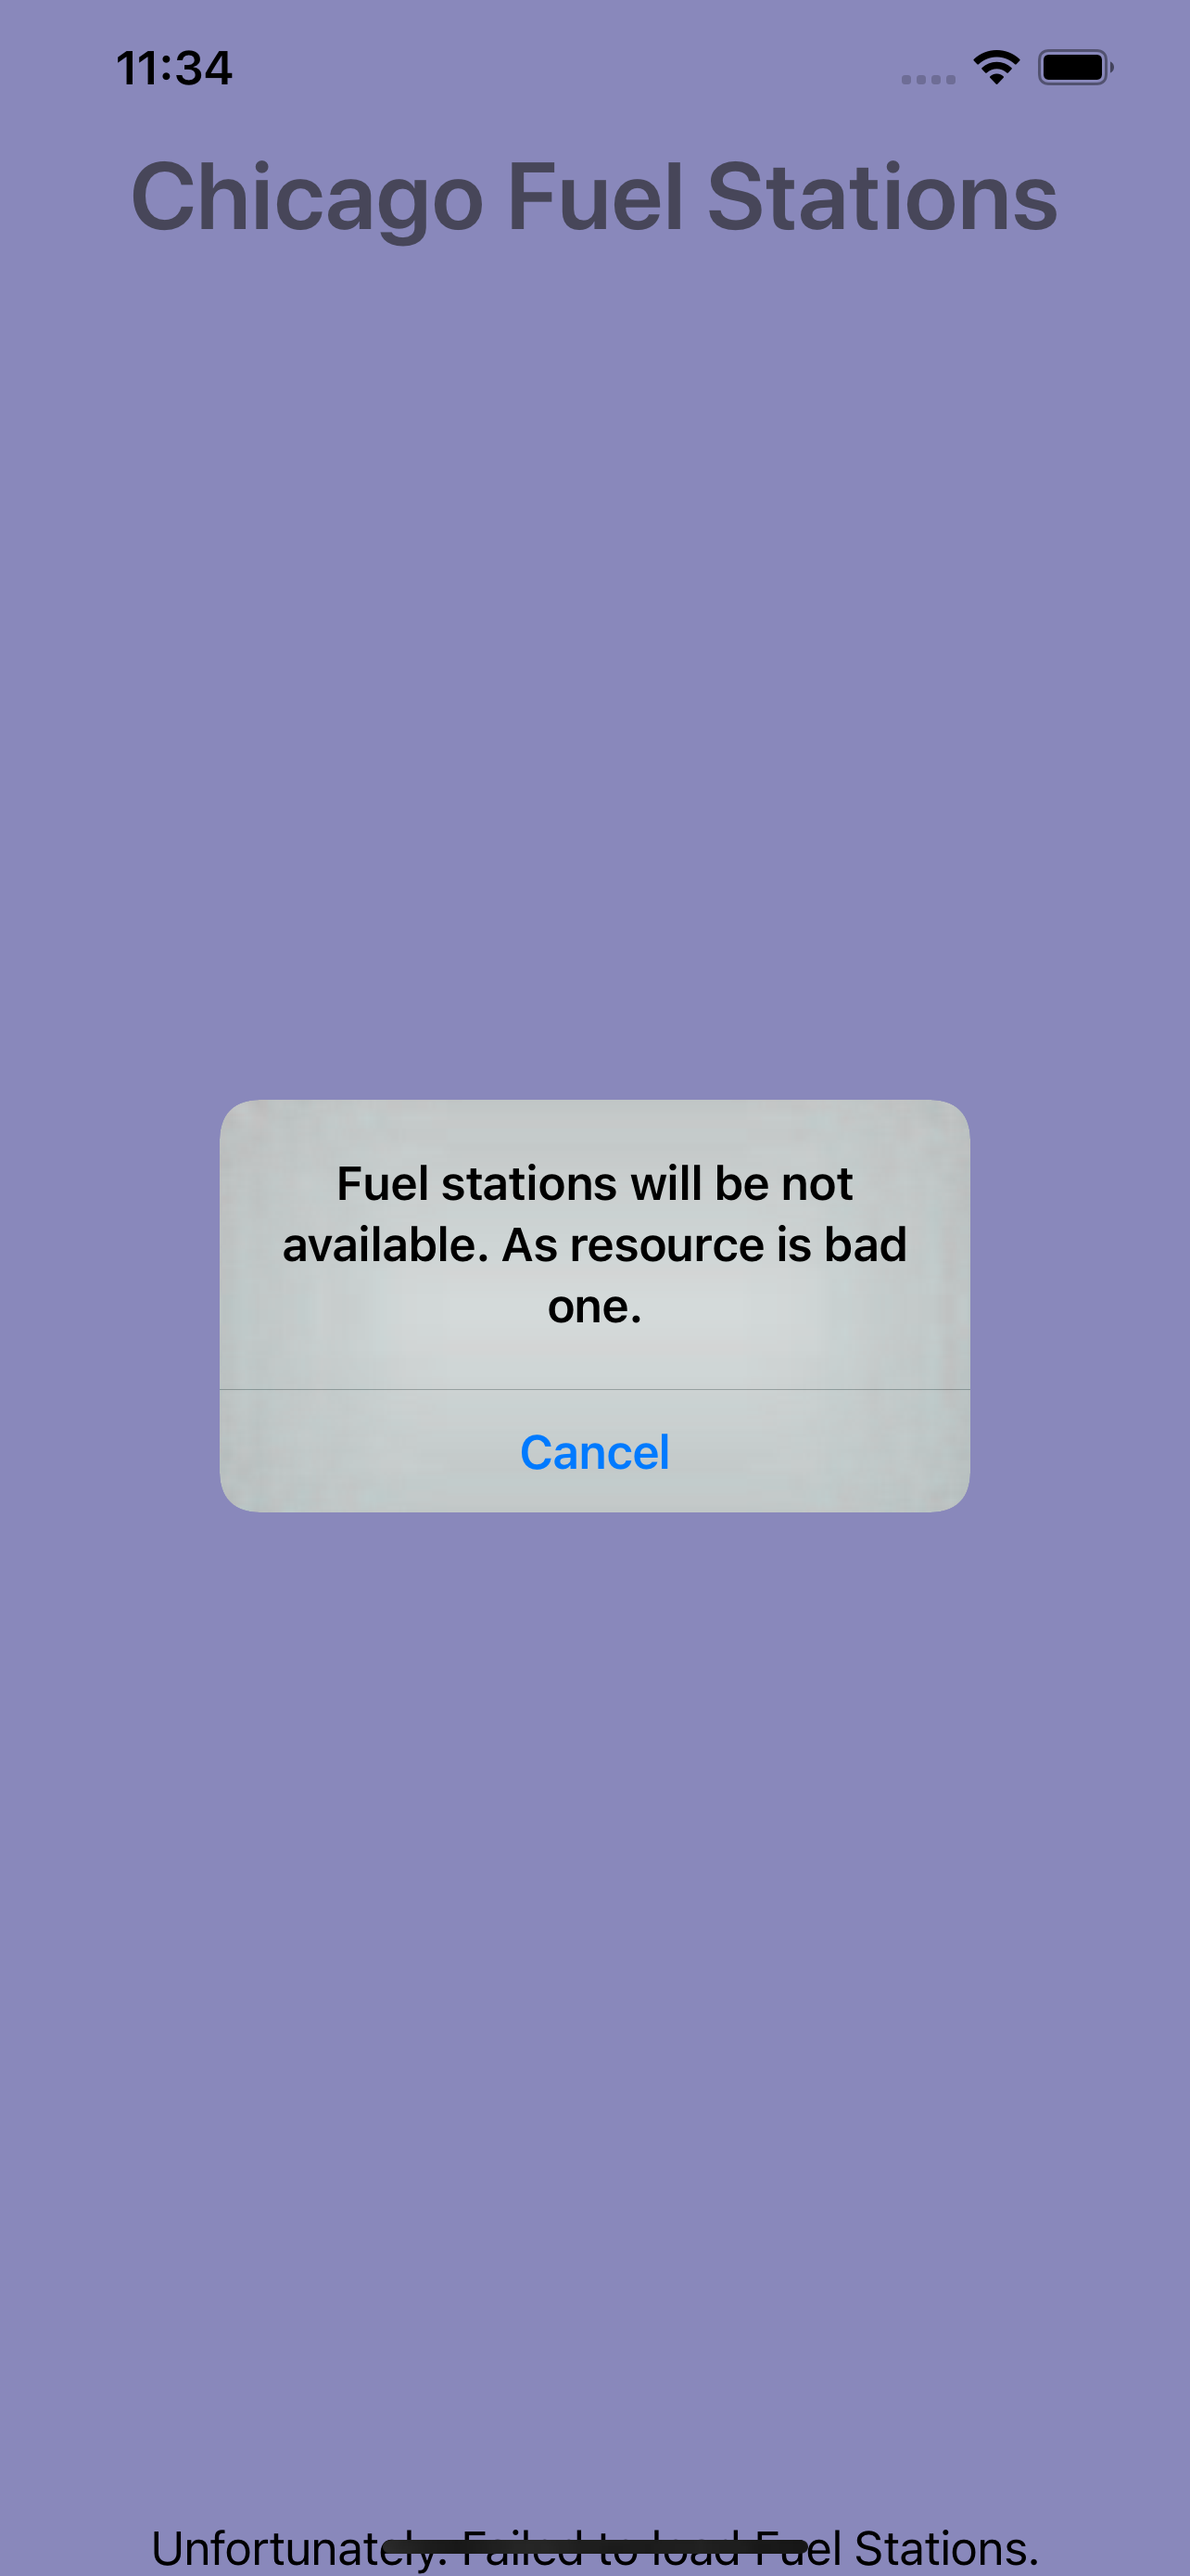
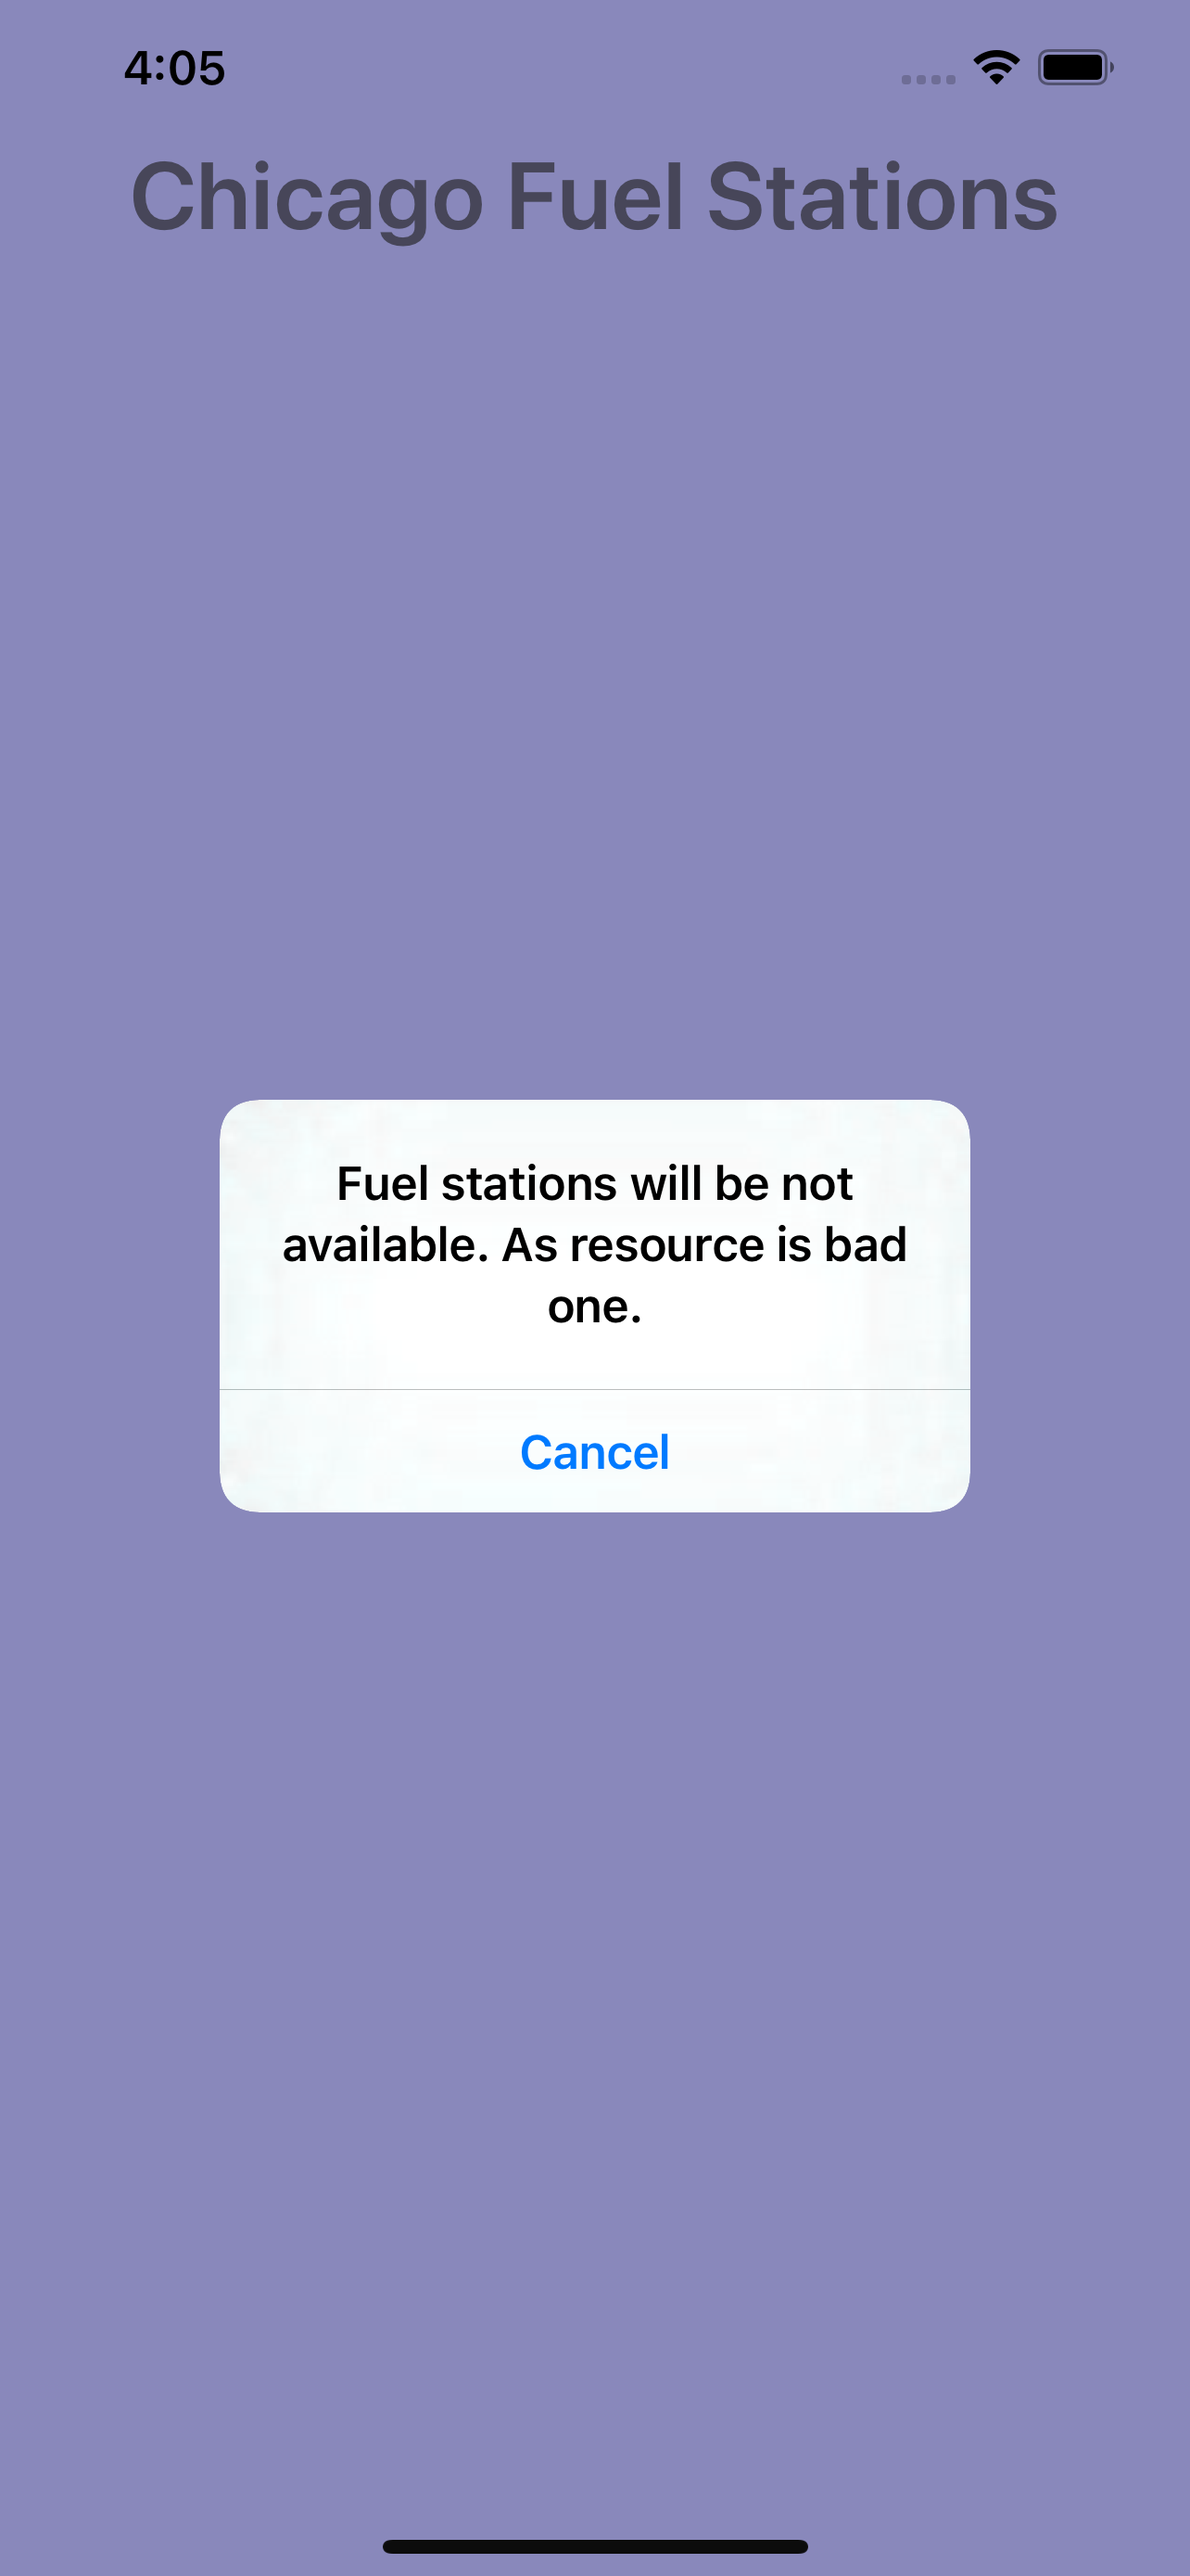
08 iOS Chicago Fuel Stations App Updated

diff --git a/08 Chicago Fuel Stations App/chicagofuelstations/chicagofuelstations/ContentView.swift b/08 Chicago Fuel Stations App/chicagofuelstations/chicagofuelstations/ContentView.swift
@@ -34,14 +34,16 @@ struct ContentView: View {
             
             Spacer()
             
-            if fuelStations.isEmpty {
+            if fuelStations.isEmpty && !showAlert {
                 ProgressView()
                     .padding()
                 
                 Text("Fuel Stations loading...")
                 
                 Spacer()
-            } else {
+            }
+            
+            if !fuelStations.isEmpty {
                 ScrollView {
                     LazyVStack {
                         ForEach(fuelStations, id: \.id) { fuelStation in
